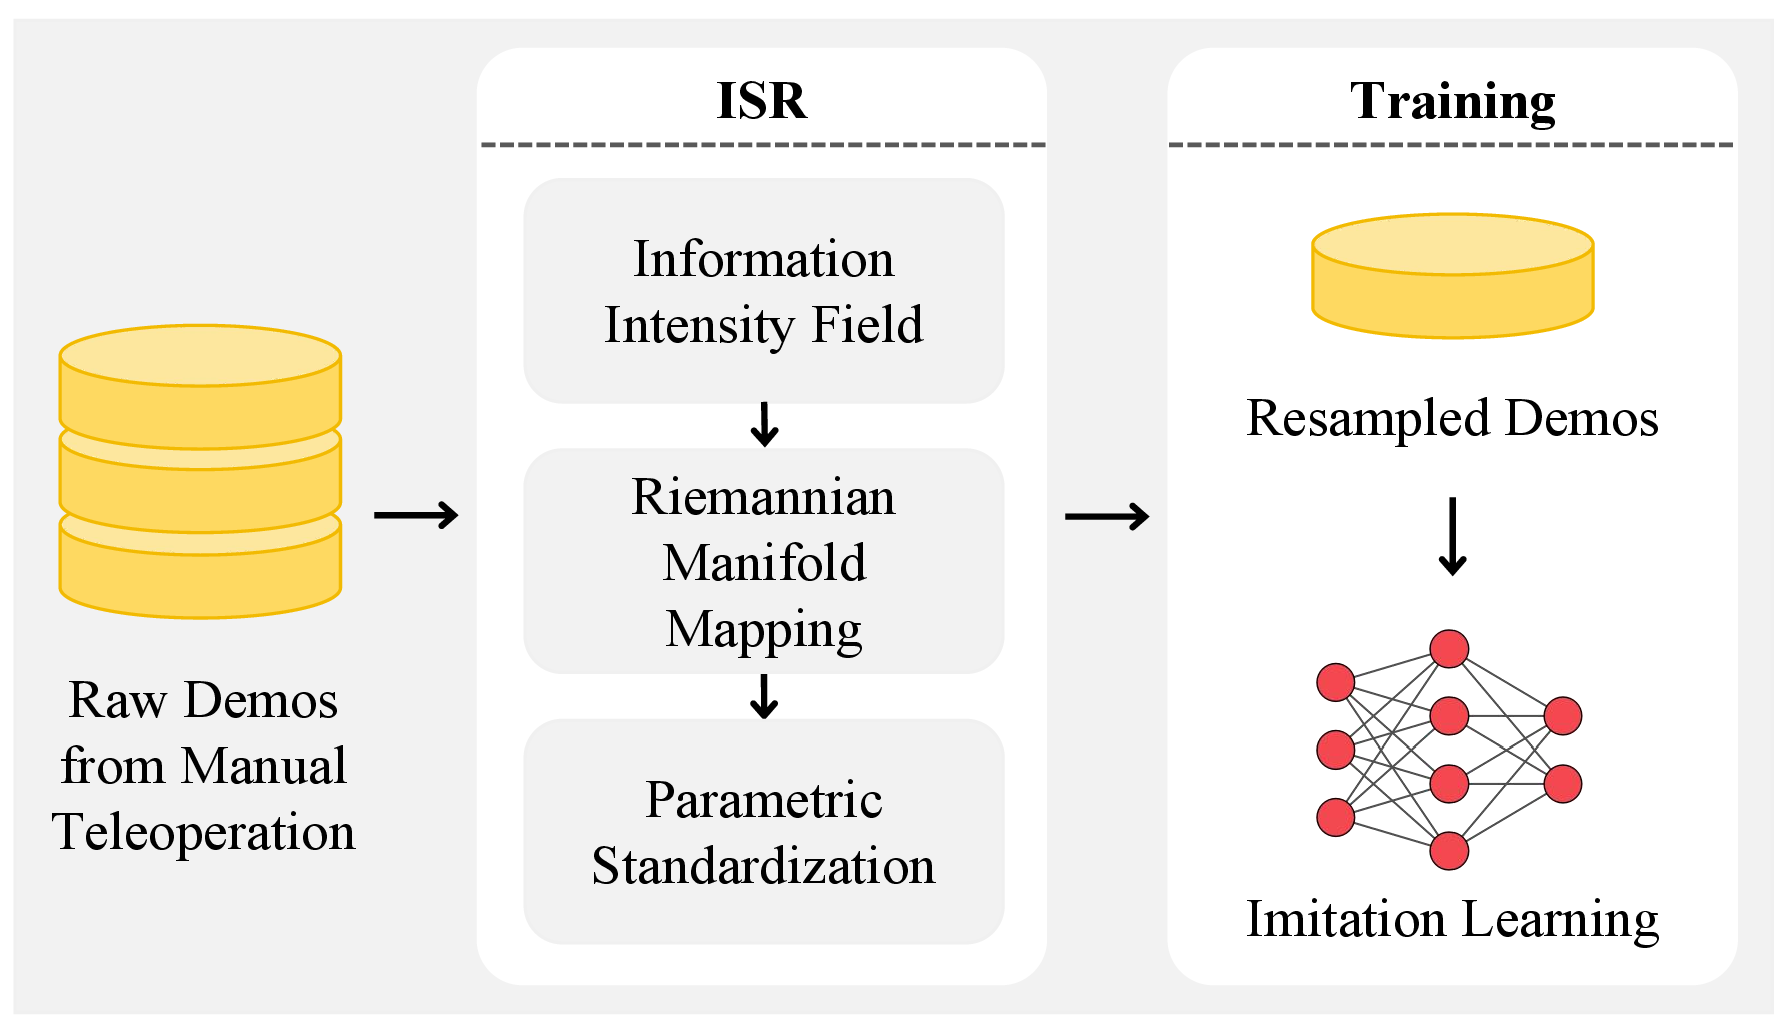
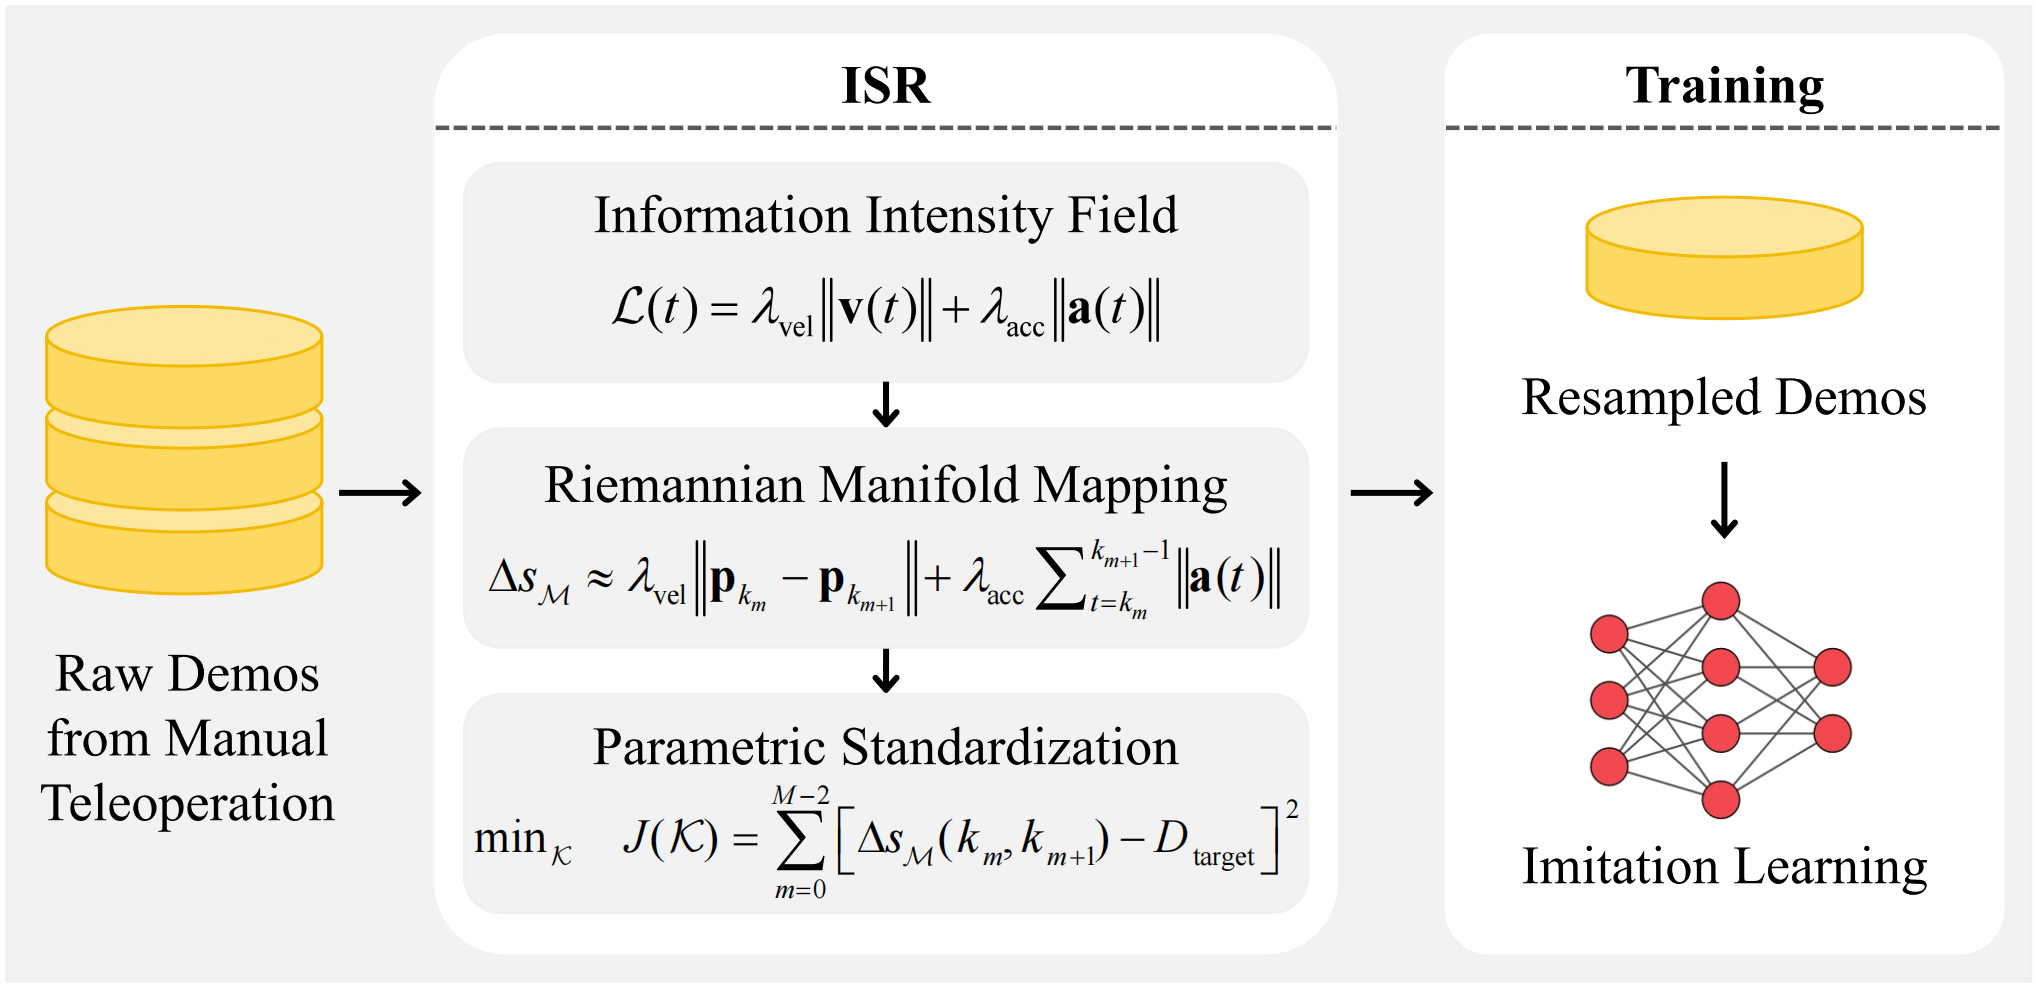
initial release

diff --git a/index.html b/index.html
@@ -58,7 +58,7 @@
   <link rel="stylesheet" href="static/css/fontawesome.all.min.css">
   <link rel="stylesheet" href="https://cdn.jsdelivr.net/gh/jpswalsh/academicons@1/css/academicons.min.css">
   <link rel="stylesheet" href="static/css/index.css">
-  <link rel="stylesheet" href="static/css/isr.css?v=20260623-3">
+  <link rel="stylesheet" href="static/css/isr.css?v=20260623-4">
 
   <script defer src="static/js/fontawesome.all.min.js"></script>
   <script defer src="static/js/isr-video.js?v=20260620-19"></script>
@@ -204,20 +204,38 @@
           <div class="content has-text-justified isr-copy">
             <p>
               <strong>Information-Standardized Trajectory Resampling (ISR)</strong> is an offline preprocessing method
-              that resamples demonstration trajectories so that consecutive points carry approximately equal kinematic
-              and dynamic information. From the end-effector position sequence, ISR computes velocity and acceleration,
-              then constructs an information-intensity field from two complementary terms: a velocity term that measures
-              the instantaneous displacement rate and an acceleration term that measures the rate of velocity change.
-              Using this field as a conformal factor, ISR maps each trajectory onto a Riemannian manifold and formulates
-              resampling as a geodesic-equidistant optimization problem, where consecutive resampled points are
-              constrained to have approximately equal generalized distance. The result is a compact, standardized
-              trajectory that preserves the start and end points and retains the operator's manipulation intent with
-              significantly fewer action points.
+              that resamples raw teleoperated demonstration trajectories so that consecutive retained points carry
+              approximately equal kinematic and dynamic information. ISR comprises three steps, as illustrated in the
+              figure below.
+            </p>
+            <p>
+              <strong>Step 1 — Information Intensity Field.</strong> From the end-effector position sequence, ISR
+              computes per-frame velocity and acceleration via finite differences, then combines them into a scalar
+              information-intensity field weighted by two complementary terms. The velocity term captures the
+              instantaneous displacement rate and identifies low-value segments such as unintentional pauses and slow
+              transits. The acceleration term encodes curvature-induced centripetal acceleration during arc-like
+              movements and tangential deceleration before contact-rich manipulation phases, serving as a kinematic
+              proxy for force-sensitive operator intent.
+            </p>
+            <p>
+              <strong>Step 2 — Riemannian Manifold Mapping.</strong> Using the information-intensity field as a
+              conformal factor, ISR warps each trajectory onto a one-dimensional Riemannian manifold. Under this
+              metric, high-activity regions are stretched while low-activity regions are compressed, so that equal
+              geodesic arc lengths correspond to equal amounts of kinematic–dynamic information. The geodesic distance
+              between two trajectory points is approximated in discrete form using the secant distance for the velocity
+              term and the accumulated acceleration sum for the acceleration term.
+            </p>
+            <p>
+              <strong>Step 3 — Parametric Standardization.</strong> ISR selects the resampled index set by minimizing
+              the total squared deviation of each segment's geodesic distance from a prescribed target distance. This
+              geodesic-equidistant optimization is solved exactly via dynamic programming with prefix-sum acceleration,
+              producing a compact, standardized trajectory that serves as a drop-in replacement for any downstream
+              imitation learning pipeline without architectural changes.
             </p>
           </div>
 
           <figure class="isr-figure isr-pipeline-figure">
-            <img src="static/images/isr_pipeline.png" alt="ISR pipeline overview" loading="lazy">
+            <img src="static/images/isr_pipeline.png?v=20260623-4" alt="ISR pipeline overview" loading="lazy">
           </figure>
         </div>
       </div>

diff --git a/static/css/isr.css b/static/css/isr.css
@@ -4,7 +4,7 @@
 
 :root {
   --isr-content-width: 980px;
-  --isr-main-figure-width: 600px;
+  --isr-main-figure-width: 820px;
   --isr-eval-width: 900px;
   --isr-body-font-size: 1rem;
 }